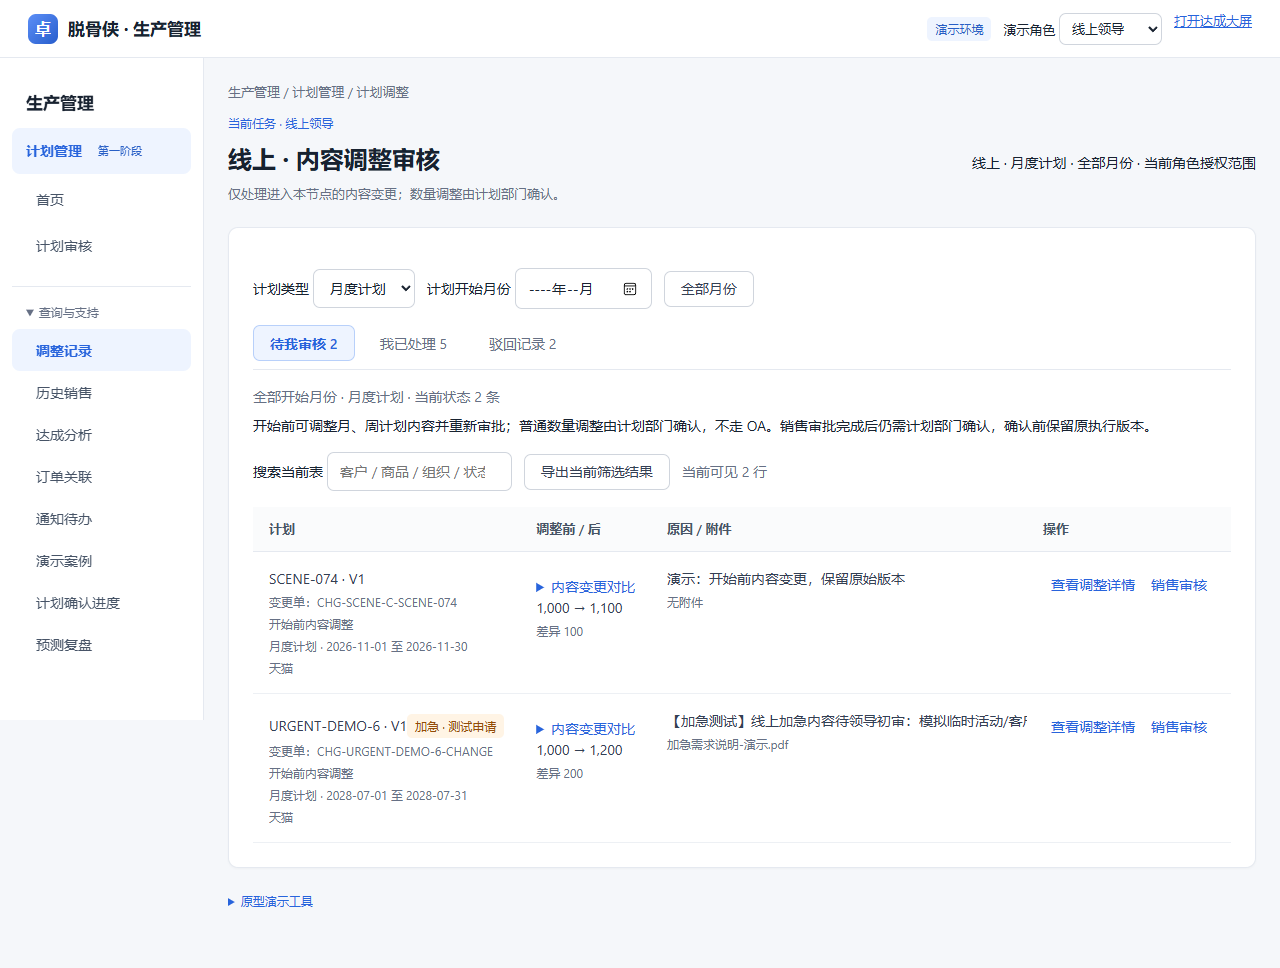
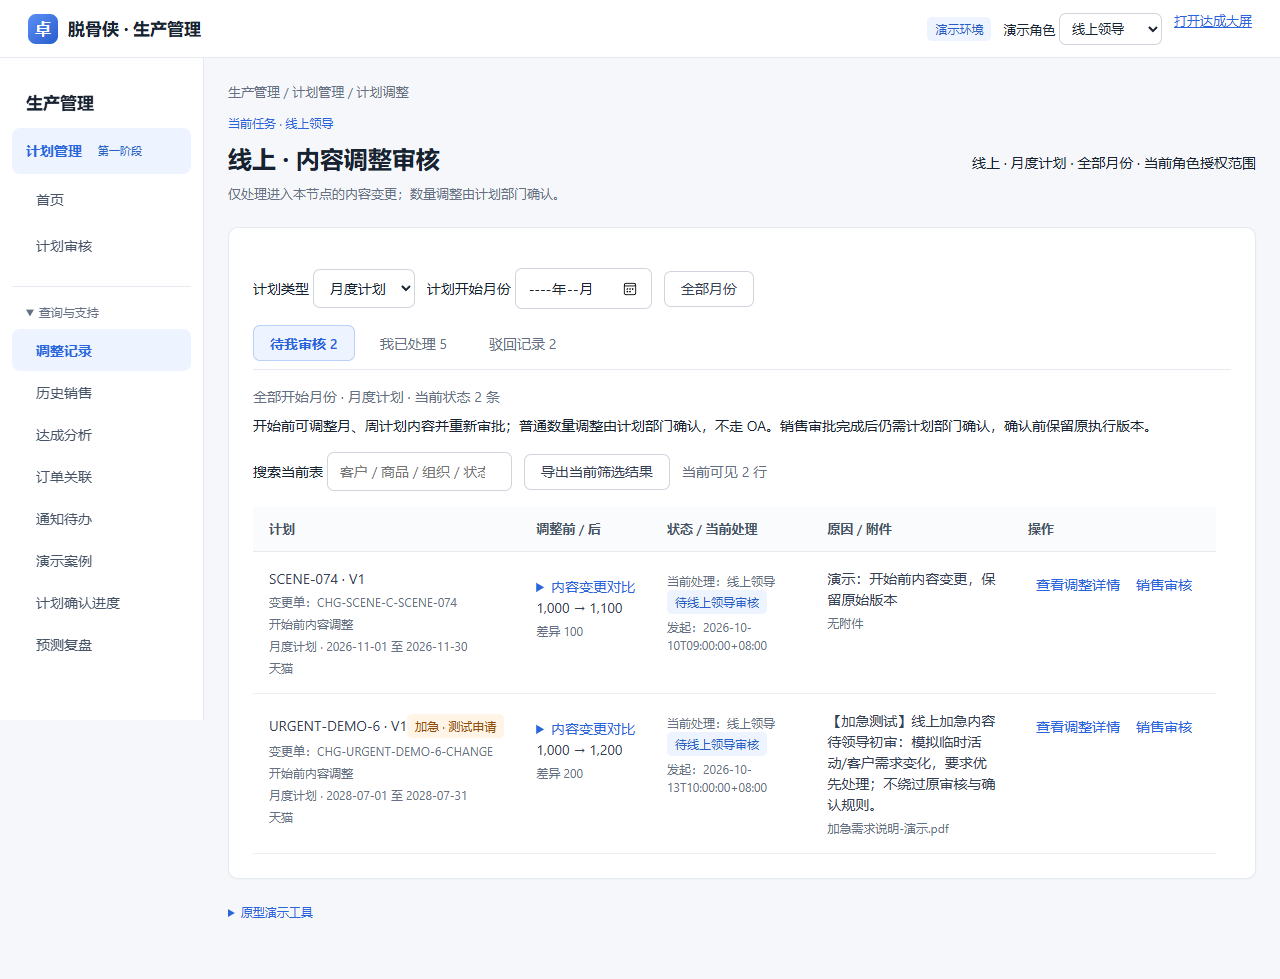
Auto sync 2026-10-14 09:34:17

diff --git a/09-设计与原型/销售计划管理/审核状态视图.js b/09-设计与原型/销售计划管理/审核状态视图.js
@@ -16,6 +16,7 @@
  const context=document.querySelector('.task-context');if(context){context.querySelector('h1').textContent=fill?'计划调整记录':planner?'调整任务确认':'内容调整审核';context.querySelector('p').textContent=fill?'查看申请进度、调整前后和退回原因；只有计划部门确认后才改变执行版本。':planner?'查看调整及前置审批后确认任务，不审批或驳回销售需求。':'仅处理进入本节点的内容变更；数量调整由计划部门确认。';}
  const header=table.querySelector(':scope > thead > tr');header.children[3].textContent='当前处理节点';header.children[4].textContent='状态 / 处理记录';
  pairs.forEach(x=>{const {row,c,p}=x;row.dataset.changeId=c.id;row.firstElementChild.insertAdjacentHTML('beforeend','<small>'+E((p.kind==='month'?'月度':'周')+'计划 · '+p.start+' 至 '+p.end)+'</small><small>'+E(p.business==='online'?p.channel:p.center+' / '+p.area+' / '+p.province+' / '+p.customer)+'</small>');row.children[3].textContent=pending(c)?c.approver:'—（当前无需处理）';row.children[4].innerHTML='<span class="tag">'+E(c.status==='待OA审批'?(c.approver==='计划部门'?'待计划部门确认':'待'+c.approver+'审核'):c.status==='已通过'?'历史已通过（以生效记录为准）':c.status)+'</span><small>发起：'+E(c.at||'未记录')+'</small>'+((c.reviewAt||c.confirmedAt)?'<small>处理：'+E(c.reviewAt||c.confirmedAt)+'</small>':'')+(c.opinion?'<small>'+E(c.opinion)+'</small>':'')+(c.status==='已撤销'?'<small>'+E(c.cancelReason||'撤销原因未记录')+'</small>':'');const detail=document.createElement('button');detail.type='button';detail.textContent='查看调整详情';detail.dataset.adjustDetail=c.id;row.lastElementChild.prepend(detail);detail.onclick=()=>api.modal('调整申请详情 · '+c.id,'<p>申请：V'+E(c.base)+' · '+E(c.before)+' → '+E(c.after)+' '+E(c.beforeContent?.unit||p.unit)+'；当前执行：V'+E(p.version)+' · '+E(p.qty)+' '+E(p.unit)+'。</p><p>状态：'+E(c.status==='待OA审批'?'待'+c.approver+'审核':c.status)+' · 加急仅优先处理，不改变审批路径。</p>'+TaskConfirmation.evidence(d,p,c));});
+ const nodeHeader=header.children[3],stateHeader=header.children[4];stateHeader.textContent='状态 / 当前处理';header.insertBefore(stateHeader,header.children[2]);nodeHeader.remove();pairs.forEach(({row,c})=>{const nodeCell=row.children[3],stateCell=row.children[4];if(pending(c))stateCell.insertAdjacentHTML('afterbegin','<small>当前处理：'+E(c.approver)+'</small>');row.insertBefore(stateCell,row.children[2]);nodeCell.remove();});table.classList.add('adjust-record-table');
  const paint=()=>{const range=pairs.filter(x=>scoped(x)&&x.p.kind===kind&&(!month||x.p.start.slice(0,7)===month));pairs.forEach(x=>{x.row.hidden=!range.includes(x)||!match(x,selected);});controls.querySelectorAll('[data-audit-state]').forEach(b=>{b.setAttribute('aria-selected',String(b.dataset.auditState===selected));b.tabIndex=b.dataset.auditState===selected?0:-1;b.textContent=tabs.find(t=>t[0]===b.dataset.auditState)[1]+' '+range.filter(x=>match(x,b.dataset.auditState)).length;});const shown=range.filter(x=>match(x,selected)).length;controls.querySelector('#adjustScopeCount').textContent=(month?'开始月份：'+month:'全部开始月份')+' · '+(kind==='month'?'月度':'周')+'计划 · 当前状态 '+shown+' 条'+(shown?'':' · 无记录时可切换状态或清除月份筛选');if(context){const meta=context.querySelector('.task-context-meta');if(meta)meta.textContent=(api.filters().business==='online'?'线上':'线下')+' · '+(kind==='month'?'月度':'周')+'计划 · '+(month||'全部月份')+' · 当前角色授权范围';}queueMicrotask(()=>FilingUX.decorate(api));};
  controls.querySelector('#adjustKind').onchange=e=>{kind=e.target.value;adjustFilters[key]={kind,month};paint();};controls.querySelector('#adjustMonth').onchange=e=>{month=e.target.value;adjustFilters[key]={kind,month};paint();};controls.querySelector('#clearAdjustPeriod').onclick=()=>{month='';adjustFilters[key]={kind,month};controls.querySelector('#adjustMonth').value='';paint();};controls.querySelectorAll('[data-audit-state]').forEach((b,i)=>{b.onclick=()=>{selected=b.dataset.auditState;states[key]=selected;paint();};b.onkeydown=e=>{if(['ArrowLeft','ArrowRight','Home','End'].includes(e.key)){e.preventDefault();const n=e.key==='Home'?0:e.key==='End'?tabs.length-1:(i+(e.key==='ArrowRight'?1:-1)+tabs.length)%tabs.length,target=controls.querySelector('[data-audit-state="'+tabs[n][0]+'"]');target.click();target.focus();}};});paint();
  }

diff --git a/09-设计与原型/销售计划管理/销售计划管理.css b/09-设计与原型/销售计划管理/销售计划管理.css
@@ -86,3 +86,5 @@ body:not(.screen) header{height:auto;min-height:58px}#salesPerson{max-width:360p
 .role-home .table-wrap table{min-width:1500px}
 .returned-review-table td,.returned-review-table td small{white-space:normal;overflow:visible;text-overflow:clip;overflow-wrap:anywhere}
 .returned-review-table td:nth-child(3){min-width:240px}
+.adjust-record-table>tbody>tr>td:nth-child(3){white-space:normal;min-width:160px;max-width:240px;overflow-wrap:anywhere}
+.adjust-record-table>tbody>tr>td:nth-child(4){white-space:normal;min-width:200px;max-width:300px;overflow-wrap:anywhere}
